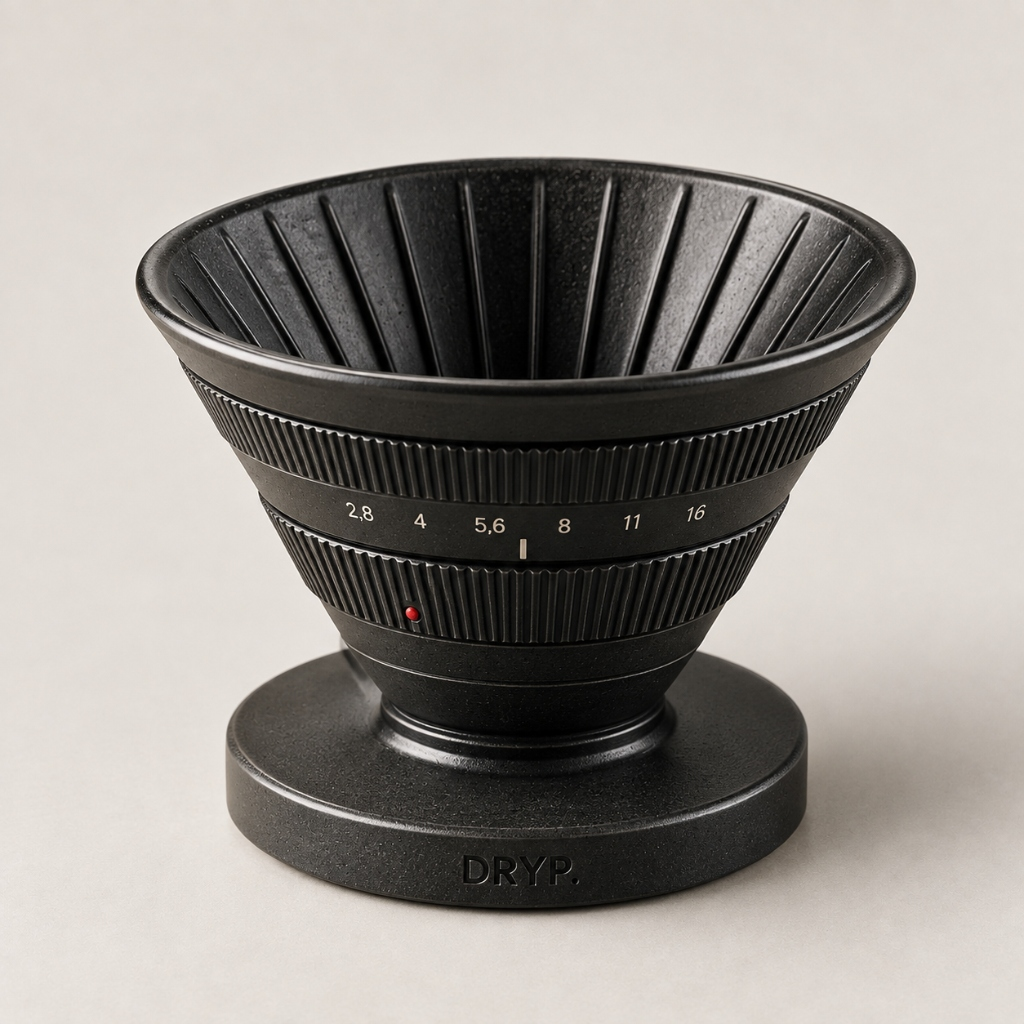
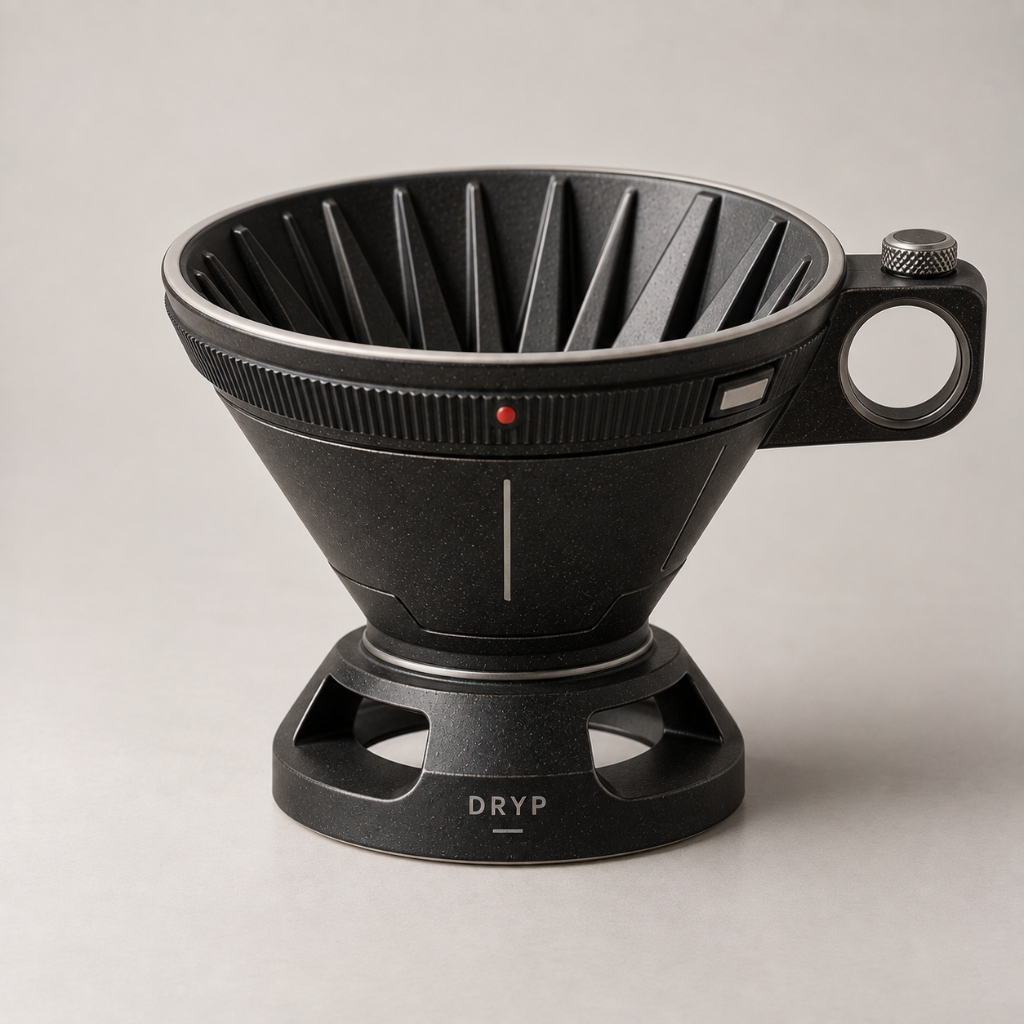
fix: replace Lens 50mm camera dripper with Leica rangefinder-inspired ceramic render

diff --git a/dripper-app/src/i18n/localizedData.ts b/dripper-app/src/i18n/localizedData.ts
@@ -396,8 +396,8 @@ export const LOCALIZED_PRODUCTS: Record<Language, Product[]> = {
       eyebrow: 'LENS 01',
       name: 'Lens 50mm f/1.4',
       headline: 'Click into focus.',
-      story: 'Crafted from matte black stoneware inspired by vintage 35mm prime lenses. Features knurled focus rings, engraved white aperture marks from f/2.8 to f/16, and a precision red index mount dot.',
-      objectDescription: 'Internal stepped geometric fluting simulates optical diaphragm regulation, calibrating flow dwell time to draw deep sweetness and velvety body from specialty roasts.',
+      story: 'Crafted from matte black stoneware directly celebrating classic Leica and rangefinder prime lenses. Features a precision-knurled focus barrel ring, iconic red index alignment dot, a tactile shutter button thumb rest, and an arched architectural base stamped with DRYP.',
+      objectDescription: 'Internal geometric vertical drainage flutes ensure uniform air circulation and laminar flow, translating precision optical mechanical discipline into balanced, sweet coffee extractions.',
       price: 74,
       currency: 'USD',
       stockStatus: 'available',
@@ -405,7 +405,8 @@ export const LOCALIZED_PRODUCTS: Record<Language, Product[]> = {
       stockCountRemaining: 18,
       paletteColors: [
         { name: 'Matte Barrel Black', hex: '#1C1B1A' },
-        { name: 'Aperture White Engraving', hex: '#FFFFFF' }
+        { name: 'Rangefinder Red Dot', hex: '#D62828' },
+        { name: 'Knurled Silver Rim', hex: '#C0C0C0' }
       ],
       specs: {
         extractionStyle: 'Deep caramelized sweetness, dense syrupy mouthfeel',
@@ -1462,8 +1463,8 @@ export const LOCALIZED_PRODUCTS: Record<Language, Product[]> = {
       eyebrow: 'OBJETO 05',
       name: 'Lens 50mm f/1.4',
       headline: 'El clic mecánico del diafragma antes de congelar un segundo irrepetible.',
-      story: 'Inspirado en los míticos objetivos analógicos para fotografía de 35mm. Cerámica negra mate de alta densidad con estrías de enfoque táctil, escala de aperturas f/2.8 a f/16 serigrafiada y punto rojo de montaje.',
-      objectDescription: 'El cuello cónico estriado interior desacelera progresivamente el paso del agua emulando el diafragmado óptico, potenciando el cuerpo y la dulzura profunda de los granos.',
+      story: 'Inspirado en los objetivos analógicos telemétricos tipo Leica. Fabricado en gres negro mate semi-vitrificado con anillo de enfoque moleteado, el icónico punto rojo de montaje índice, botón disparador texturizado de apoyo y base arquitectónica calada con el sello DRYP.',
+      objectDescription: 'Nervaduras interiores verticales que aseguran un flujo de aire continuo y drenaje laminar limpio, traduciendo la disciplina de la mecánica óptica en una taza balanceada, dulce y cristalina.',
       price: 74,
       currency: 'USD',
       stockStatus: 'available',
@@ -1471,7 +1472,8 @@ export const LOCALIZED_PRODUCTS: Record<Language, Product[]> = {
       stockCountRemaining: 18,
       paletteColors: [
         { name: 'Negro Anodizado Mate', hex: '#1C1B1A' },
-        { name: 'Grabado Blanco Óptico', hex: '#FFFFFF' }
+        { name: 'Punto Rojo Telemétrico', hex: '#D62828' },
+        { name: 'Borde Plateado Moleteado', hex: '#C0C0C0' }
       ],
       specs: {
         extractionStyle: 'Dulzura profunda, cuerpo aterciopelado y acidez balanceada',

diff --git a/dripper-app/src/data/pinterestPinsData.ts b/dripper-app/src/data/pinterestPinsData.ts
@@ -379,7 +379,7 @@ export const DRYP_DRIPS: DrypDrip[] = [
     id: 'drip-lens-50',
     productId: 'lens-50',
     title: '10 / Lens 50mm',
-    subtitle: 'Cuerpo cerámico negro mate con escala de diafragma y estrías de enfoque. Geometría óptica de vertido milimétrico.',
+    subtitle: 'Cerámica negra mate con aro de enfoque moleteado, punto rojo de montaje índice, botón disparador texturizado y base calada con sello DRYP.',
     category: 'Cinema',
     categoryLabel: 'Fotografía y cine',
     imageSrc: '/images/products/lens-50.jpg',
